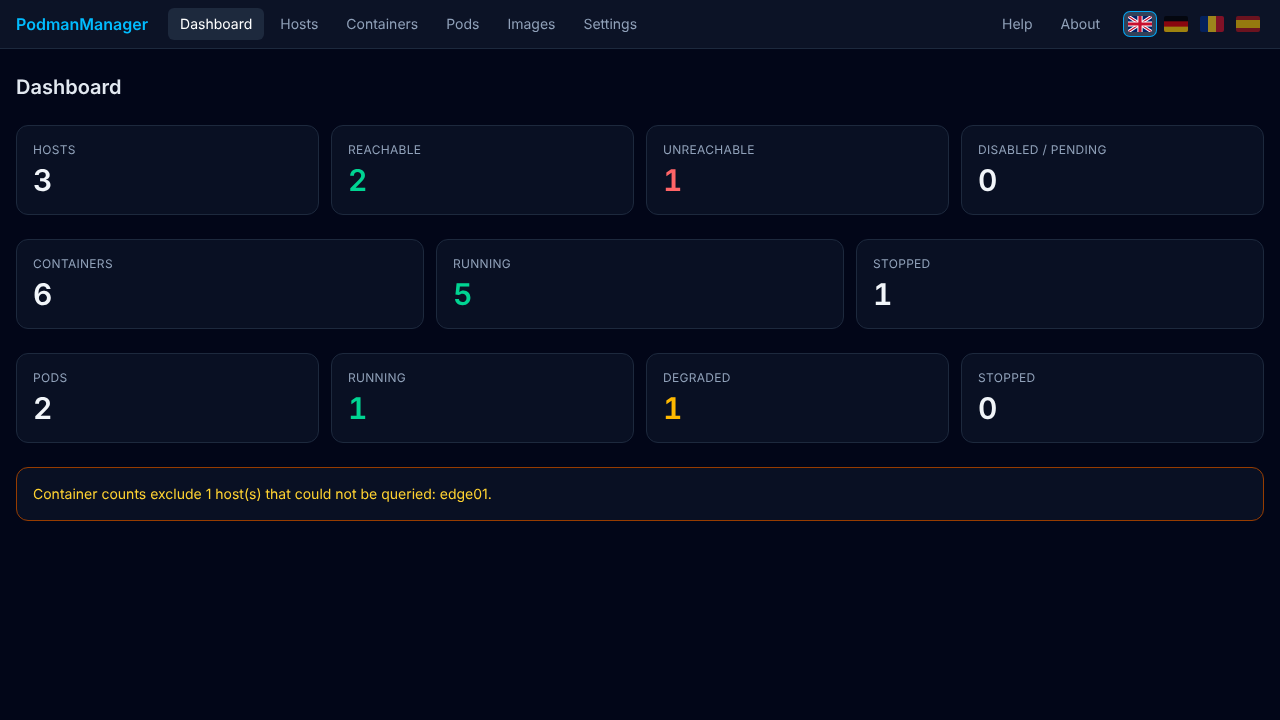
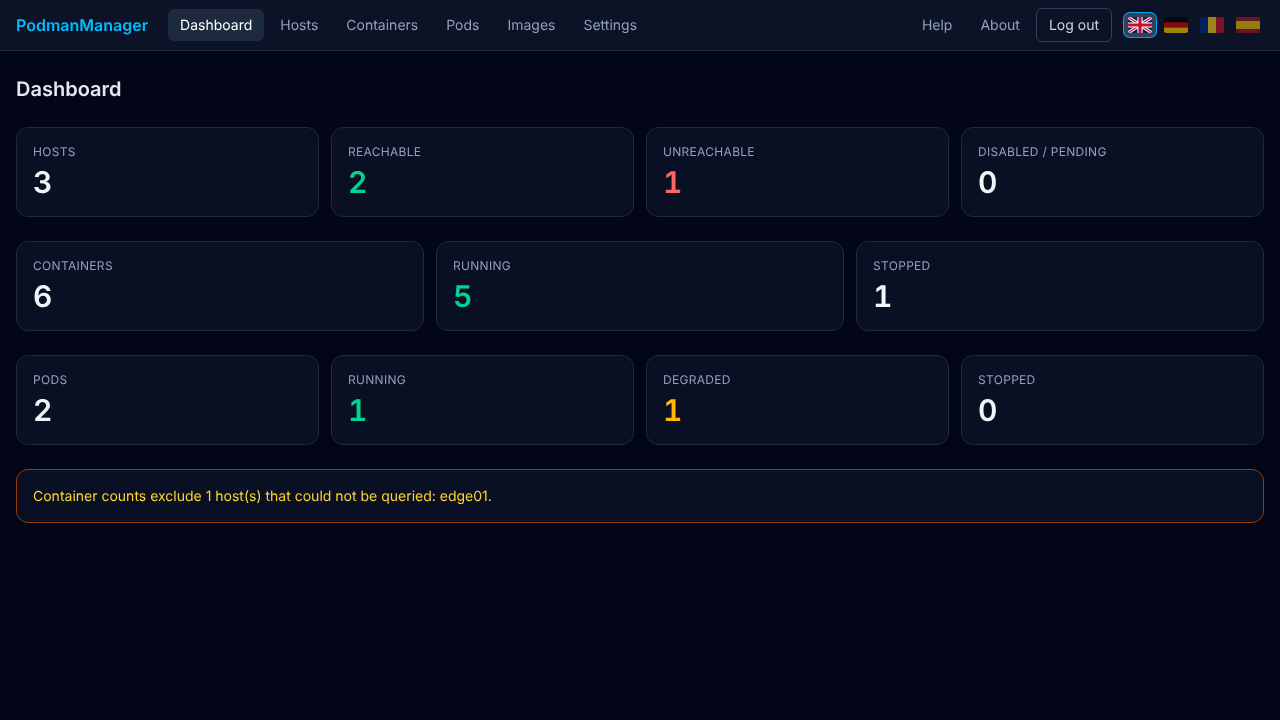
Abmelden in der Navigationsleiste (Desktop und Handy-Menü) statt in den Einstellungen; Doku und Screenshots aktualisiert
Claude-Session: https://claude.ai/code/session_01Mw1eJcjz1zhTj6DqA4m2yv

diff --git a/apps/master/src/app/(app)/settings/page.tsx b/apps/master/src/app/(app)/settings/page.tsx
@@ -1,7 +1,7 @@
 import Link from "next/link";
 import AppLogs from "@/components/AppLogs";
 import ActionForm from "@/components/ActionForm";
-import { appLogsAction, brandingAction, samlAction, samlImportAction, changePasswordAction, hiddenAction, ldapAction, logoutAction } from "@/app/actions";
+import { appLogsAction, brandingAction, samlAction, samlImportAction, changePasswordAction, hiddenAction, ldapAction } from "@/app/actions";
 import { getConfig } from "@/lib/config";
 import { DEFAULT_FILTER } from "@/lib/ldap";
 import { EMPTY_LDAP, loadLdapConfig } from "@/lib/ldap-config";
@@ -131,7 +131,6 @@ export default async function Settings({ searchParams }: { searchParams: SP }) {
             <p className="card text-sm text-slate-400">{t("set.localOnly")}</p>
           )}
 
-          <form action={logoutAction}><button className="btn">{t("set.logout")}</button></form>
         </div>
       )}
 

diff --git a/apps/master/src/components/Nav.tsx b/apps/master/src/components/Nav.tsx
@@ -8,6 +8,7 @@ import { useT } from "./I18nProvider";
 import AboutDialog from "./AboutDialog";
 import LangSelect from "./LangSelect";
 import { APP_NAME, REPO_URL } from "@/lib/brand";
+import { logoutAction } from "@/app/actions";
 
 const ITEMS: { href: string; key: Key }[] = [
   { href: "/", key: "nav.dashboard" },
@@ -71,6 +72,11 @@ export default function Nav({ version, brand }: { version: string; brand: { text
               {t("nav.help")}
             </a>
             <AboutDialog version={version} />
+            <form action={logoutAction}>
+              <button type="submit" className="rounded-md border border-slate-700 px-3 py-2 text-sm text-slate-300 transition hover:bg-slate-800 hover:text-white md:py-1.5">
+                {t("set.logout")}
+              </button>
+            </form>
             <LangSelect className="ml-2" />
           </div>
         </div>

diff --git a/docs/benutzerhandbuch.md b/docs/benutzerhandbuch.md
@@ -59,7 +59,7 @@ Gut zu wissen:
 
 **Abmelden**
 
-Öffnen Sie **Einstellungen** und klicken Sie unten auf **Abmelden**. Das sollten Sie tun, wenn Sie einen Rechner mit anderen teilen.
+Klicken Sie oben rechts in der Navigationsleiste auf **Abmelden** (auf dem Handy im Menü). Das sollten Sie tun, wenn Sie einen Rechner mit anderen teilen.
 
 **Hinweis bei SSO:** Das Abmelden beendet Ihre Sitzung in PodmanManager; Ihre Anmeldung im Firmennetz bleibt bestehen. Nach dem Abmelden verlangt PodmanManager beim nächsten Klick auf **Mit SSO anmelden**, dass Sie sich **erneut anmelden** (Benutzername und Passwort). Haben Sie einen Firmenrechner mit automatischer Windows-Anmeldung, kann das ohne Eingabe gehen, weil Ihr Windows-Konto die Anmeldung übernimmt. Auf einem fremden oder gemeinsam genutzten Rechner melden Sie sich daher zusätzlich vom Windows-Konto bzw. Firmennetz ab und schließen den Browser.
 
@@ -76,9 +76,10 @@ Oben sehen Sie die **Navigationsleiste**. Von dort erreichen Sie alle Bereiche:
 | **Container** | Alle einzelnen Anwendungen. Hier starten, stoppen, neu starten und Logs lesen |
 | **Pods** | Anwendungen, die zusammengehören, als Gruppe |
 | **Images** | Die Programmpakete auf den Rechnern, nur zum Ansehen |
-| **Einstellungen** | Wer Sie sind, was Sie sehen dürfen, Abmelden |
+| **Einstellungen** | Wer Sie sind, was Sie sehen dürfen |
 | **Hilfe** | Öffnet die Projektseite im Internet (in englischer Sprache) |
 | **Über** | Version von PodmanManager und ob eine neuere Version verfügbar ist |
+| **Abmelden** | Beendet Ihre Sitzung |
 | **Flaggen** | Sprache wechseln: Englisch, Deutsch, Rumänisch, Spanisch |
 
 **Wichtig:** Sie sehen nur die Rechner, für die Ihre **Gruppe** freigegeben ist. Das steht auf jeder Seite oben, zum Beispiel: *„Sie sehen nur die Agents Ihrer Gruppen: Team A.“* Fehlt ein Rechner, den Sie erwarten, ist er nicht für Ihre Gruppe freigegeben (siehe [Kapitel 12](#12-wenn-etwas-nicht-klappt)).
@@ -212,7 +213,7 @@ Als Benutzer können Sie Images **nur ansehen**. Löschen und Aufräumen sind Ad
 
 ![Einstellungen](screenshots/handbuch/09-einstellungen.png)
 
-Hier (Registerkarte **Allgemein**) sehen Sie, als wer Sie angemeldet sind, **auf welche Rechner Sie zugreifen dürfen** (Ihre Gruppen) und wie oft PodmanManager die Rechner prüft. Ändern können Sie als Benutzer hier nichts, das ist dem Administrator vorbehalten („Nur der lokale Administrator kann das ändern“). Ihr **Passwort** ändern Sie nicht hier, sondern wie gewohnt im Firmennetz. Unten finden Sie **Abmelden**.
+Hier (Registerkarte **Allgemein**) sehen Sie, als wer Sie angemeldet sind, **auf welche Rechner Sie zugreifen dürfen** (Ihre Gruppen) und wie oft PodmanManager die Rechner prüft. Ändern können Sie als Benutzer hier nichts, das ist dem Administrator vorbehalten („Nur der lokale Administrator kann das ändern“). Ihr **Passwort** ändern Sie nicht hier, sondern wie gewohnt im Firmennetz.
 
 **Über**
 
@@ -230,7 +231,7 @@ Auf dem Handy passt sich die Seite an: Tabellen werden zu **Karten**, und die Na
 
 ![Dashboard auf dem Handy](screenshots/handbuch/12-handy-dashboard.png)
 
-1. Tippen Sie auf den **Menü-Knopf**. Die Liste mit Dashboard, Hosts, Container, Pods, Images, Einstellungen, Hilfe, Über und den Sprach-Flaggen klappt auf.
+1. Tippen Sie auf den **Menü-Knopf**. Die Liste mit Dashboard, Hosts, Container, Pods, Images, Einstellungen, Hilfe, Über, Abmelden und den Sprach-Flaggen klappt auf.
 2. Tippen Sie auf einen Eintrag. Das Menü schließt sich von selbst. Ein weiterer Tipp auf den Knopf (jetzt ein **X**) schließt es ebenfalls.
 
 ![Menü auf dem Handy](screenshots/handbuch/13-handy-menue.png)
